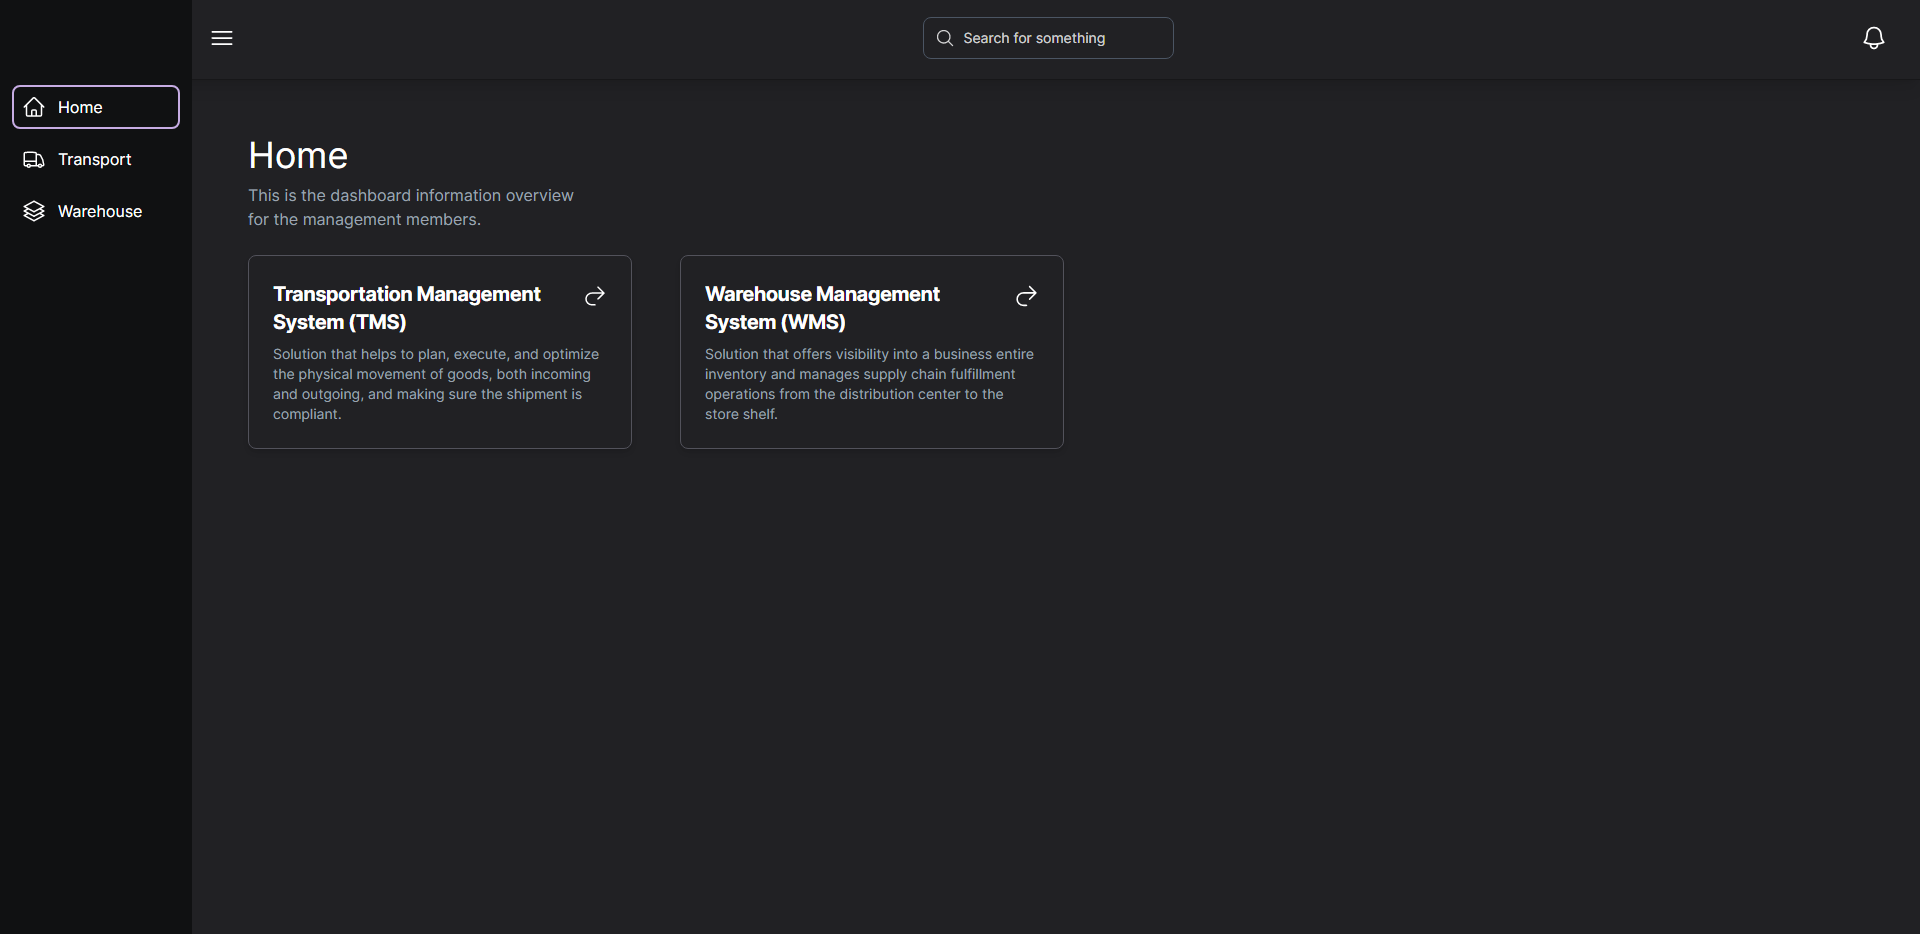
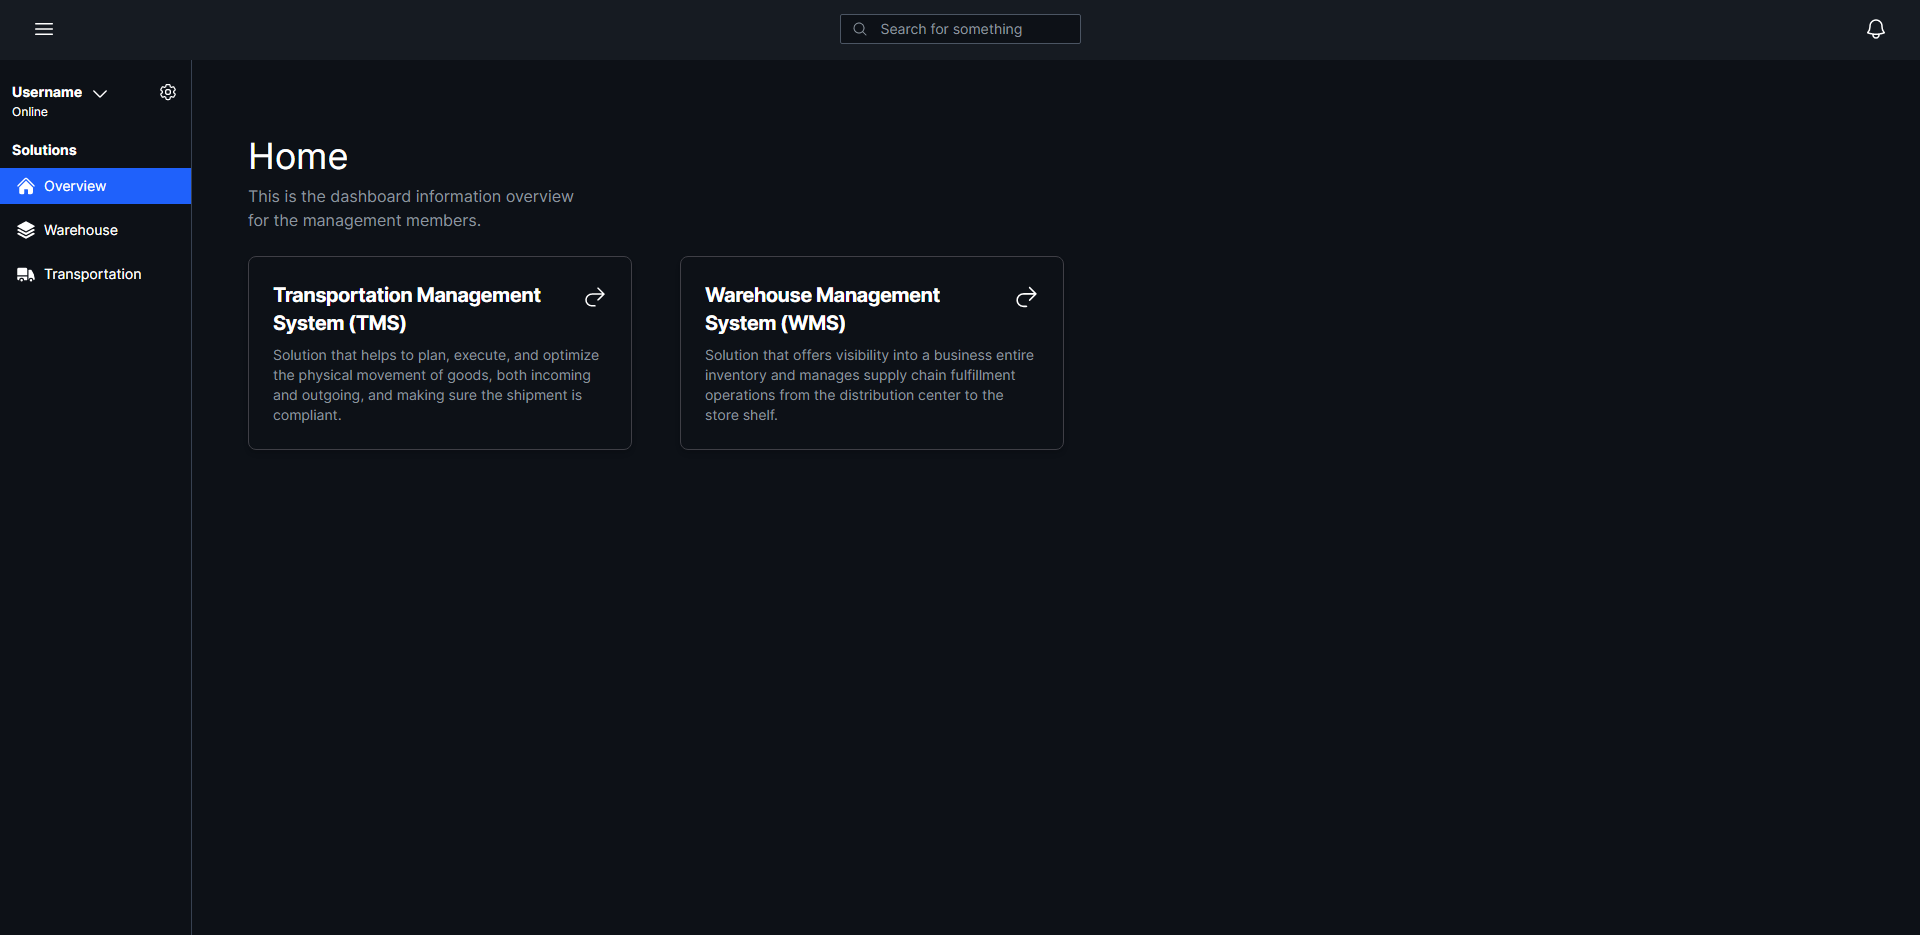
Updating inteface

diff --git a/client/pages/components/Nav.tsx b/client/pages/components/Nav.tsx
@@ -1,9 +1,14 @@
-import { Bars3Icon, MagnifyingGlassIcon } from "@heroicons/react/24/solid";
 import {
-  BellIcon,
-  TruckIcon,
+  Bars3Icon,
+  MagnifyingGlassIcon,
   HomeIcon,
+  TruckIcon,
   Square3Stack3DIcon,
+} from "@heroicons/react/24/solid";
+import {
+  ChevronDownIcon,
+  Cog6ToothIcon,
+  BellIcon,
 } from "@heroicons/react/24/outline";
 
 import Link from "next/link";
@@ -13,25 +18,34 @@ export default function Nav() {
   const router = useRouter();
   return (
     <div className="fixed top-0 left-0">
-      <header className="fixed top-0 flex w-full items-center justify-between border-b-[1px] border-b-black/30 bg-[#212124] px-8 py-5 pl-52 text-center shadow-lg">
-        <Bars3Icon className="h-7 w-7 cursor-pointer text-white hover:text-[#c6ace3]" />
+      <header className="fixed top-0 flex w-full items-center justify-between bg-[#161b22] px-8 py-4 text-center">
+        <Bars3Icon className="h-6 w-6 cursor-pointer text-white hover:text-[#c7c7c7]" />
 
         <div className="relative">
           <div className="pointer-events-none absolute inset-y-0 left-0 flex items-center pl-3 text-center">
-            <MagnifyingGlassIcon className="h-5 w-5 text-white/80" />
+            <MagnifyingGlassIcon className="h-4 w-4 text-[#8B949E]" />
           </div>
           <input
             type="text"
-            className="block w-auto rounded-lg border border-gray-600 bg-[#212124] p-2.5 pl-10 text-sm text-white placeholder-white/80 focus:border-[#c6ace3] focus:outline-none focus:ring-1 focus:ring-[#c6ace3] sm:text-sm"
+            className="block w-auto rounded-sm border border-gray-600 bg-[#0d1117] py-1 pl-10 text-sm text-[#b4bac0] placeholder-[#8B949E] focus:border-[#f78166] focus:outline-none focus:ring-1 focus:ring-[#f78166]"
             placeholder="Search for something"
           />
         </div>
 
-        <BellIcon className="h-7 w-7 cursor-pointer text-white hover:text-[#c6ace3]" />
+        <BellIcon className="h-6 w-6 cursor-pointer text-white hover:text-[#c7c7c7]" />
       </header>
 
-      <aside className="fixed h-full w-48">
-        <div className="h-full bg-[#101112] px-3 pt-20">
+      <aside className="fixed mt-[62px] h-full w-48 border-r border-r-gray-700 bg-[#0d1117]">
+        <div className=" px-3 py-5 text-white">
+          <div className="flex items-center align-middle ">
+            <p className="text-sm font-bold">Username</p>
+            <ChevronDownIcon className="mt-1 ml-2 h-5 w-5 text-white" />
+            <Cog6ToothIcon className="ml-12 h-5 w-5" />
+          </div>
+          <p className="text-xs">Online</p>
+        </div>
+        <div className="h-full">
+          <h1 className="ml-3 text-sm font-bold text-white">Solutions</h1>
           <ul>
             <li>
               <div>
@@ -39,39 +53,39 @@ export default function Nav() {
                   href="/"
                   className={
                     router.pathname == "/"
-                      ? "mt-2 flex items-center rounded-lg border-[2px] border-[#c6ace3] p-2 text-base font-normal text-white"
-                      : "mt-2 flex items-center rounded-lg border-[2px] border-transparent p-2 text-base font-normal text-white hover:border-[#c6ace3]"
+                      ? "mt-2 flex items-center bg-[#1f61fb] p-2 text-base font-normal text-white"
+                      : "mt-2 flex items-center p-2 text-base font-normal text-white hover:bg-[#1f61fb]"
                   }
                 >
-                  <HomeIcon className="h-6 w-6 text-white" />
-                  <span className="ml-3 ">Home</span>
+                  <HomeIcon className="ml-2 h-5 w-5 text-white" />
+                  <span className="ml-2 mr-2 text-sm">Overview</span>
                 </Link>
               </div>
 
               <div>
                 <Link
-                  href="/transportation"
+                  href="/warehouse"
                   className={
-                    router.pathname == "/transportation"
-                      ? "mt-2 flex items-center rounded-lg border-[2px] border-[#c6ace3] p-2 text-base font-normal text-white"
-                      : "mt-2 flex items-center rounded-lg border-[2px] border-transparent p-2 text-base font-normal text-white hover:border-[#c6ace3]"
+                    router.pathname == "/warehouse"
+                      ? "mt-2 flex items-center bg-[#1f61fb] p-2 text-base font-normal text-white"
+                      : "mt-2 flex items-center p-2 text-base font-normal text-white hover:bg-[#1f61fb]"
                   }
                 >
-                  <TruckIcon className="h-6 w-6 text-white" />
-                  <span className="ml-3">Transport</span>
+                  <Square3Stack3DIcon className="ml-2 h-5 w-5 text-white" />
+                  <span className="ml-2 text-sm">Warehouse</span>
                 </Link>
               </div>
               <div>
                 <Link
-                  href="/warehouse"
+                  href="/transportation"
                   className={
-                    router.pathname == "/warehouse"
-                      ? "mt-2 flex items-center rounded-lg border-[2px] border-[#c6ace3] p-2 text-base font-normal text-white"
-                      : "mt-2 flex items-center rounded-lg border-[2px] border-transparent p-2 text-base font-normal text-white hover:border-[#c6ace3]"
+                    router.pathname == "/transportation"
+                      ? "mt-2 flex items-center bg-[#1f61fb] p-2 text-base font-normal text-white"
+                      : "mt-2 flex items-center p-2 text-base font-normal text-white hover:bg-[#1f61fb]"
                   }
                 >
-                  <Square3Stack3DIcon className="h-6 w-6 text-white" />
-                  <span className="ml-3">Warehouse</span>
+                  <TruckIcon className="ml-2 h-5 w-5 text-white" />
+                  <span className="ml-2 text-sm">Transportation</span>
                 </Link>
               </div>
             </li>

diff --git a/client/pages/transportation.tsx b/client/pages/transportation.tsx
@@ -117,7 +117,7 @@ export default function Transportation() {
                 </div>
                 <input
                   type="text"
-                  className="block w-auto rounded-lg border border-zinc-600 bg-[#212124] p-2.5 pl-10 text-sm  text-white placeholder-gray-400 focus:border-[#c6ace3] focus:outline-none focus:ring-1 focus:ring-[#c6ace3] sm:text-sm"
+                  className="block w-auto rounded-lg border border-zinc-700 bg-[#0d1117] p-2.5 pl-10 text-sm  text-white placeholder-gray-400 focus:border-[#f78166] focus:outline-none focus:ring-1 focus:ring-[#f78166] sm:text-sm"
                   placeholder="Search deliveries"
                   onChange={(e) => setQuery(e.target.value)}
                 />
@@ -280,8 +280,18 @@ export default function Transportation() {
 
           <div className="relative h-[470px] overflow-y-scroll shadow-lg sm:rounded-lg">
             <table className="w-full text-left text-sm text-gray-400  ">
-              <thead className="bg-[#18181B] text-xs uppercase text-white ">
+              <thead className="bg-[#161b22] text-xs uppercase text-white ">
                 <tr>
+                  <th scope="col" className="p-4">
+                    <div className="flex items-center">
+                      <input
+                        id="checkbox-all-search"
+                        type="checkbox"
+                        className="h-4 w-4 rounded border-gray-300 bg-gray-100 text-blue-600 focus:ring-2 focus:ring-blue-500 dark:border-gray-600 dark:bg-gray-700 dark:ring-offset-gray-800 dark:focus:ring-blue-600"
+                      />
+                      <label className="sr-only">checkbox</label>
+                    </div>
+                  </th>
                   <th scope="col" className="py-3 px-6">
                     Del. number
                   </th>
@@ -326,6 +336,16 @@ export default function Transportation() {
                         className="border-b border-zinc-700 bg-[#222227] hover:bg-zinc-700"
                         key={items.id}
                       >
+                        <td className="w-4 p-4">
+                          <div className="flex items-center">
+                            <input
+                              id="checkbox-table-search-2"
+                              type="checkbox"
+                              className="h-4 w-4 rounded border-gray-300 bg-gray-100 text-blue-600 focus:ring-2 focus:ring-blue-500 dark:border-gray-600 dark:bg-gray-700 dark:ring-offset-gray-800 dark:focus:ring-blue-600"
+                            />
+                            <label className="sr-only">checkbox</label>
+                          </div>
+                        </td>
                         <th
                           scope="row"
                           className="whitespace-nowrap py-4 px-6 font-medium text-white "
@@ -344,7 +364,7 @@ export default function Transportation() {
                         <td className="py-4 px-6 text-right">
                           <button
                             onClick={() => handleDelete(items.id)}
-                            className="font-medium text-[#c6ace3] hover:underline"
+                            className="font-medium text-white hover:underline"
                           >
                             Delete
                           </button>

diff --git a/client/pages/index.tsx b/client/pages/index.tsx
@@ -20,7 +20,7 @@ export default function Home() {
             <div className="flex items-center gap-2">
               <h1 className="pb-2 text-4xl">Home</h1>
             </div>
-            <p className="text-gray-400">
+            <p className="text-[#8B949E]">
               This is the dashboard information overview
               <br />
               for the management members.{" "}
@@ -30,15 +30,15 @@ export default function Home() {
           <div className="flex gap-x-12 gap-y-4">
             <Link
               href="/transportation"
-              className="block max-h-[400px] max-w-sm rounded-lg border border-zinc-600 bg-[#212124] p-6 shadow-md transition-all duration-200 hover:scale-105 hover:border-[#c6ace3] hover:shadow-sm hover:shadow-[#c6ace3]"
+              className="block max-h-[400px] max-w-sm rounded-lg border border-zinc-700 bg-[#0d1117] p-6 shadow-md transition-all duration-200 hover:scale-105 hover:shadow-md"
             >
               <div className="flex gap-3">
                 <h5 className="mb-2 text-xl font-bold tracking-tight text-white">
                   Transportation Management System (TMS)
                 </h5>
-                <ArrowUturnRightIcon className="h-8 w-8 hover:animate-pulse" />
+                <ArrowUturnRightIcon className="h-8 w-8 text-white hover:animate-pulse" />
               </div>
-              <p className="text-sm font-normal text-gray-400">
+              <p className="text-sm font-normal text-[#8B949E]">
                 Solution that helps to plan, execute, and optimize the physical
                 movement of goods, both incoming and outgoing, and making sure
                 the shipment is compliant.
@@ -46,15 +46,15 @@ export default function Home() {
             </Link>
             <Link
               href="/warehouse"
-              className="block max-h-[400px] max-w-sm rounded-lg border border-zinc-600 bg-[#212124] p-6 shadow-md transition-all duration-200 hover:scale-105 hover:border-[#c6ace3] hover:shadow-sm hover:shadow-[#c6ace3]"
+              className="block max-h-[400px] max-w-sm rounded-lg border border-zinc-700 bg-[#0d1117] p-6 shadow-md transition-all duration-200 hover:scale-105 hover:shadow-md"
             >
               <div className="flex gap-3">
                 <h5 className="mb-2 text-xl font-bold tracking-tight text-white">
                   Warehouse Management System (WMS)
                 </h5>
-                <ArrowUturnRightIcon className="h-8 w-8 hover:animate-pulse" />
+                <ArrowUturnRightIcon className="h-8 w-8 text-white hover:animate-pulse" />
               </div>
-              <p className="text-sm font-normal text-gray-400">
+              <p className="text-sm font-normal text-[#8B949E]">
                 Solution that offers visibility into a business entire inventory
                 and manages supply chain fulfillment operations from the
                 distribution center to the store shelf.

diff --git a/client/pages/warehouse.tsx b/client/pages/warehouse.tsx
@@ -314,19 +314,19 @@ export default function Warehouse() {
             <div className="grid h-24 grid-cols-2 bg-[#252527] text-center text-white">
               <section className="max-w-[194px] border-[1px] border-zinc-600 px-16 py-6 text-xs font-bold uppercase shadow-sm">
                 <p>Products</p>
-                <p className="text-xl font-bold text-[#c6ace3]">
+                <p className="text-xl font-bold text-[#58A6FF]">
                   {count?.count}
                 </p>
               </section>
               <section className="max-w-[194px] border-[1px] border-zinc-600 p-6  px-16 text-xs font-bold uppercase shadow-sm">
                 <p>Limit</p>
-                <p className="text-xl font-bold text-[#c6ace3]">250</p>
+                <p className="text-xl font-bold text-[#58A6FF]">250</p>
               </section>
             </div>
           </div>
           <div className="relative h-[470px] overflow-y-scroll shadow-lg transition-all sm:rounded-lg">
             <table className="w-full text-left text-sm text-gray-500 dark:text-gray-400">
-              <thead className="bg-zinc-900 text-xs uppercase text-white ">
+              <thead className="bg-[#161b22] text-xs uppercase text-white ">
                 <tr>
                   <th scope="col" className="py-3 px-6">
                     Product name
@@ -375,14 +375,14 @@ export default function Warehouse() {
                         <td className="py-4 px-6">{products.pickingStatus}</td>
 
                         <td className="py-4 px-6 text-right">
-                          <button className="pr-1 font-medium text-[#c6ace3] hover:underline">
+                          <button className="pr-1 font-medium text-white hover:underline">
                             Edit
                           </button>
                           <>
                             <DeleteModal />
                             <button
                               onClick={() => handleDelete(products.id)}
-                              className="pl-1 font-medium text-[#c6ace3] hover:underline"
+                              className="pl-1 font-medium text-white hover:underline"
                             >
                               Delete
                             </button>

diff --git a/client/pages/components/Input.tsx b/client/pages/components/Input.tsx
@@ -7,7 +7,7 @@ export function Input(props: InputProps) {
     <input
       {...props}
       required
-      className="block w-auto rounded-lg border border-zinc-600 bg-[#212124] p-2.5 pl-4 text-sm  text-white placeholder-gray-400 focus:border-[#c6ace3] focus:outline-none focus:ring-1 focus:ring-[#c6ace3] sm:text-sm"
+      className="block w-auto rounded-lg border border-zinc-700 bg-[#0d1117] p-2.5 pl-4 text-sm  text-white placeholder-gray-400 focus:border-[#f78166] focus:outline-none focus:ring-1 focus:ring-[#f78166] sm:text-sm"
     />
   );
 }

diff --git a/client/pages/styles/globals.css b/client/pages/styles/globals.css
@@ -4,7 +4,7 @@
 
 @layer base {
   body {
-    @apply overflow-x-hidden bg-[#212124] font-Inter;
+    @apply overflow-x-hidden bg-[#0d1117] font-Inter;
   }
 }
 
